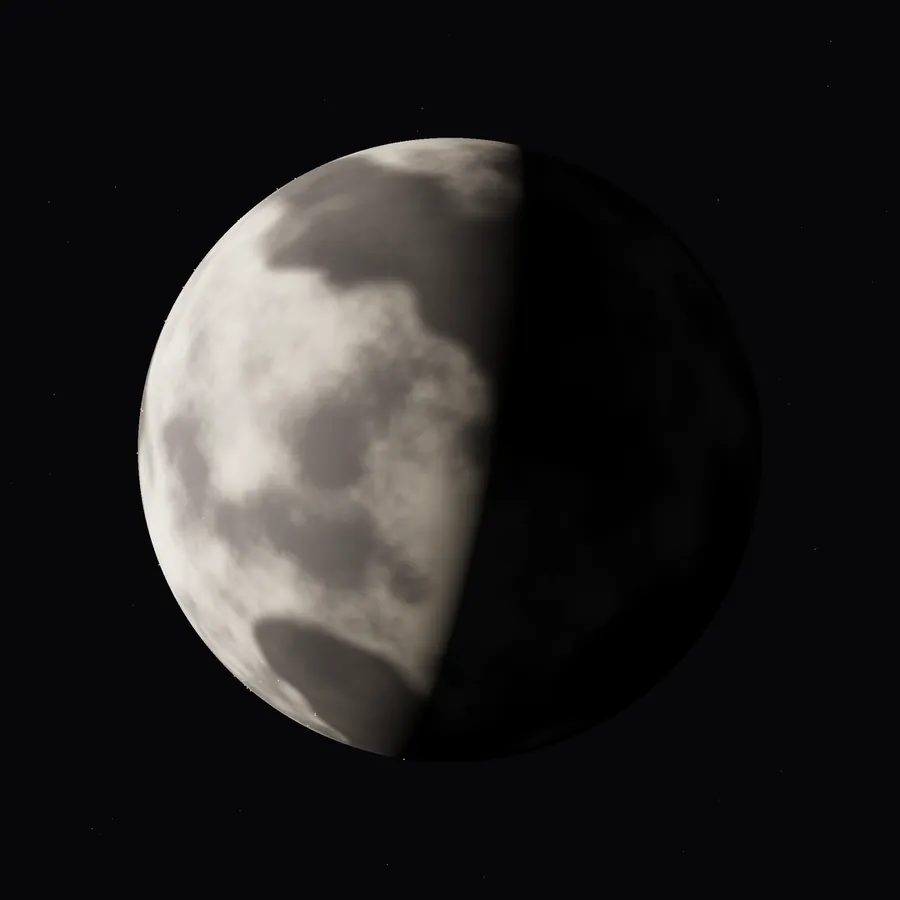
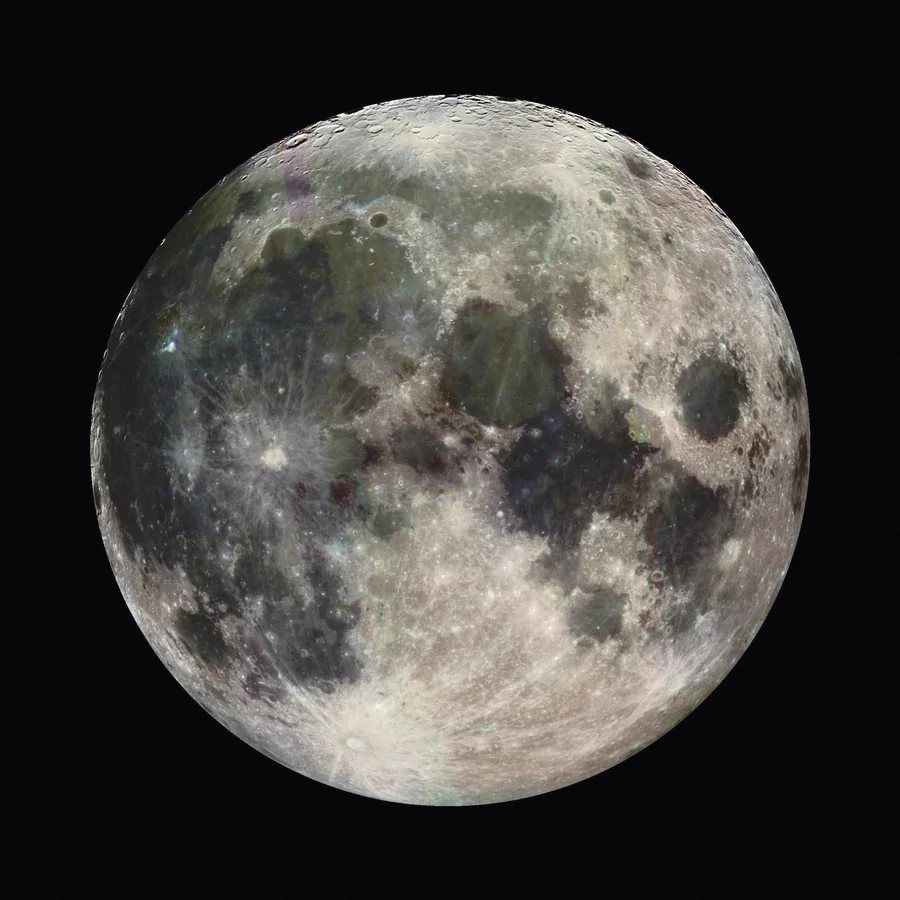
the-rising-archive: real images where they fit; one card wash everywhere
- Public-domain images replace most generated plates: Met Open Access
  objects (rapier, plate armour, wedjat eye, Roman scalpel, theatre
  masks; lion, eagle, fox, oil lamp, sundial for the houses) cut out of
  their studio paper and set on the archive's stage; NASA photographs for
  the six places; Leutze, Tiepolo, Bruegel and David for the Rising.
  Credits under every image and on the Fan Art page
  (lib/data/credits.ts, scripts/art/sourced.py). Dreadnoughts, starships
  and PsychoSpikes keep their renders; the originals move to
  images/renders for the Fan Art page.
- Honor and Fatherhood show framed portraits, Legacy the real cover; the
  home cards use a portrait and the six covers.
- Card wash: burgundy on every card again (Ephraim, Orion and the
  Survivors circle had drifted), and on the cast entries and the Iron
  Rain choices.

Claude-Session: https://claude.ai/code/session_013FcwhpvnvFTAqo8e5UMege

diff --git a/the-rising-archive/lib/data/credits.ts b/the-rising-archive/lib/data/credits.ts
@@ -1,0 +1,42 @@
+// Public-domain images that replaced the archive's generated plates where a
+// real thing came close to the description (scripts/art/sourced.py). Every
+// one is public domain: The Metropolitan Museum of Art's Open Access
+// (CC0) and NASA imagery (not copyrighted). The generated originals are
+// kept in /images/renders/ for the Fan Art page. Dreadnoughts, starships
+// and PsychoSpikes keep their renders: nothing real comes close.
+
+export type Credit = { title: string; by: string; source: string; url: string; alt: string };
+
+const met = (id: number) => `https://www.metmuseum.org/art/collection/search/${id}`;
+const nasa = (id: string) => `https://images.nasa.gov/details/${id}`;
+const MET = "The Metropolitan Museum of Art, Open Access (public domain)";
+const NASA = "NASA (public domain)";
+
+export const CREDITS: Record<string, Credit> = {
+  "/images/vault/razor.webp": { title: "Rapier", by: "Italian, ca. 1610–20", source: MET, url: met(22369), alt: "A rapier’s ornate steel hilt, standing in for a razor." },
+  "/images/vault/starshell.webp": { title: "Armor", by: "Italian, ca. 1400–1450", source: MET, url: met(23205), alt: "A full suit of plate armour, standing in for a StarShell." },
+  "/images/vault/minds-eye.webp": { title: "Wedjat Eye Amulet", by: "Egyptian, 332–30 BCE", source: MET, url: met(550940), alt: "A gold Eye of Horus amulet." },
+  "/images/vault/carving.webp": { title: "Bronze scalpel", by: "Roman, 1st–2nd century CE", source: MET, url: met(244206), alt: "A Roman bronze scalpel." },
+  "/images/vault/holotech.webp": { title: "Terracotta roundels in the form of theatrical masks", by: "Greek, 1st century BCE", source: MET, url: met(257595), alt: "Two theatre masks, one grave, one grinning." },
+  "/images/houses/augustus.webp": { title: "Marble statue of a lion", by: "Greek, ca. 400–390 BCE", source: MET, url: met(248140), alt: "A marble lion, crouched to spring." },
+  "/images/houses/bellona.webp": { title: "Eagle", by: "American, 1809–11", source: MET, url: met(17139), alt: "A gilded eagle, wings spread." },
+  "/images/houses/telemanus.webp": { title: "Netsuke of Fox", by: "Japanese, 19th century", source: MET, url: met(60375), alt: "A carved ivory fox." },
+  "/images/houses/lune.webp": { title: "Terracotta oil lamp", by: "Roman, 1st century CE", source: MET, url: met(246270), alt: "A Roman oil lamp, lit: light from darkness." },
+  "/images/houses/raa.webp": { title: "Portable horizontal sundial", by: "French, before 1681", source: MET, url: met(188861), alt: "A sundial, which tells time by shadow." },
+  "/images/places/mars.webp": { title: "Global Color Views of Mars (PIA00407)", by: "NASA/JPL, Viking", source: NASA, url: nasa("PIA00407"), alt: "Mars, the real planet: red, with Valles Marineris across its face." },
+  "/images/places/luna.webp": { title: "Earth Moon (PIA00405)", by: "NASA/JPL, Galileo", source: NASA, url: nasa("PIA00405"), alt: "The Moon." },
+  "/images/places/mercury.webp": { title: "Mercury Globe (PIA15160)", by: "NASA/JHUAPL/Carnegie, MESSENGER", source: NASA, url: nasa("PIA15160"), alt: "Mercury, grey and cratered." },
+  "/images/places/venus.webp": { title: "Venus from Mariner 10 (PIA23791)", by: "NASA/JPL-Caltech", source: NASA, url: nasa("PIA23791"), alt: "Venus under its clouds." },
+  "/images/places/io.webp": { title: "Global image of Io (PIA02308)", by: "NASA/JPL/University of Arizona, Galileo", source: NASA, url: nasa("PIA02308"), alt: "Io, yellow and volcanic." },
+  "/images/places/earth.webp": { title: "Blue Marble 2007 West", by: "NASA Goddard", source: NASA, url: nasa("GSFC_20171208_Archive_e002131"), alt: "Earth." },
+  "/images/rising/movement.webp": { title: "Washington Crossing the Delaware", by: "Emanuel Leutze, 1851", source: MET, url: met(11417), alt: "Washington Crossing the Delaware: a boat of rebels crossing a frozen river." },
+  "/images/rising/war.webp": { title: "The Battle of Vercellae", by: "Giovanni Battista Tiepolo, 1725–29", source: MET, url: met(437794), alt: "The Battle of Vercellae: Roman cavalry in the crush of a battle." },
+  "/images/rising/myth.webp": { title: "The Harvesters", by: "Pieter Bruegel the Elder, 1565", source: MET, url: met(435809), alt: "The Harvesters: reapers with scythes in a golden field." },
+  "/images/rising/government.webp": { title: "The Death of Socrates", by: "Jacques Louis David, 1787", source: MET, url: met(436105), alt: "The Death of Socrates: a state executes its own philosopher." },
+};
+
+export const creditLine = (src: string) => {
+  const c = CREDITS[src];
+  return c ? `${c.title}. ${c.by}. ${c.source.split(",")[0].replace(" (public domain)", "")}` : "";
+};
+export const altFor = (src: string, fallback: string) => CREDITS[src]?.alt ?? fallback;

diff --git a/the-rising-archive/app/fandom/fan-art/page.tsx b/the-rising-archive/app/fandom/fan-art/page.tsx
@@ -6,6 +6,7 @@ import FramedPortrait from "@/components/archive/FramedPortrait";
 import { getExtended } from "@/lib/data/extended";
 import { getPerson, safeAs } from "@/lib/data/people";
 import { PORTRAITS, portraitCredit } from "@/lib/data/portraits";
+import { CREDITS } from "@/lib/data/credits";
 
 const portraitName = (slug: string) => {
   const p = getPerson(slug);
@@ -33,15 +34,15 @@ const GROUPS: { title: string; note: string; items: { src: string; alt: string; 
   {
     title: "The Rising",
     note: "A movement, a war, a myth, a government.",
-    items: ["movement", "war", "myth", "government"].map((s) => ({ src: `/images/rising/${s}.webp`, alt: `The Rising: ${s}.`, w: 1600, h: 900 })),
+    items: ["movement", "war", "myth", "government"].map((s) => ({ src: `/images/renders/rising/${s}.webp`, alt: `The Rising: ${s}.`, w: 1600, h: 900 })),
   },
   {
     title: "Worlds, seals and machines",
     note: "Planets, house seals, and the Artifact Vault.",
     items: [
-      ...["mars", "luna", "earth", "mercury", "venus", "io"].map((s) => ({ src: `/images/places/${s}.webp`, alt: `${s}, rendered.` })),
-      ...["augustus", "bellona", "lune", "telemanus", "raa"].map((s) => ({ src: `/images/houses/${s}.webp`, alt: `The ${s} seal.` })),
-      ...["razor", "starshell", "dreadnought", "starship", "minds-eye", "carving", "psychospike", "holotech"].map((s) => ({ src: `/images/vault/${s}.webp`, alt: `${s.replace(/-/g, " ")}, from the Vault.` })),
+      ...["mars", "luna", "earth", "mercury", "venus", "io"].map((s) => ({ src: `/images/renders/places/${s}.webp`, alt: `${s}, rendered.` })),
+      ...["augustus", "bellona", "lune", "telemanus", "raa"].map((s) => ({ src: `/images/renders/houses/${s}.webp`, alt: `The ${s} seal.` })),
+      ...["razor", "starshell", "dreadnought", "starship", "minds-eye", "carving", "psychospike", "holotech"].map((s) => ({ src: `/images/renders/vault/${s}.webp`, alt: `${s.replace(/-/g, " ")}, from the Vault.` })),
     ],
   },
 ];
@@ -52,7 +53,7 @@ export default function FanArtPage() {
       <PageHeader
         trail={[{ href: "/", label: "Archive" }, { href: "/fandom/", label: "The Fandom" }, { href: "/fandom/fan-art/", label: "Fan art" }]}
         title="The archive’s plates"
-        lede="The character portraits are the fandom’s work, credited to the artists below. Everything else here is the archive’s own: three.js scenes rendered headlessly, and posters drawn in code."
+        lede="The character portraits are the fandom’s work, credited to the artists below. The renders further down are the archive’s own: three.js scenes and posters drawn in code. Where a real, public-domain image came closer, the site uses it instead; those are listed at the end."
       >
         <p className="mt-6 max-w-[56ch] text-sm text-ash-2">
           For the fandom’s real artists, go where they post:{" "}
@@ -98,6 +99,24 @@ export default function FanArtPage() {
           </div>
         </section>
       ))}
+      <section aria-labelledby="sources-title" className="border-t border-line px-5 py-16 md:px-8">
+        <div className="mx-auto max-w-[1400px]">
+          <h2 id="sources-title" className="font-display text-h3 font-bold uppercase">Real images used on the site</h2>
+          <p className="mt-2 max-w-[70ch] text-ash">
+            Where a real object, painting or photograph came close to what the books describe, it replaced the archive’s render. All are public domain: The Met’s Open Access collection and NASA.
+          </p>
+          <ul role="list" className="mt-8 grid gap-x-10 gap-y-3 md:grid-cols-2">
+            {Object.entries(CREDITS).map(([src, c]) => (
+              <li key={src} className="border-b border-line pb-3 text-sm">
+                <a href={c.url} target="_blank" rel="noopener noreferrer" className="inline-block py-1 text-bone underline decoration-line-strong underline-offset-4 hover:text-red">
+                  {c.title}
+                </a>
+                <span className="text-ash">. {c.by}. {c.source}.</span>
+              </li>
+            ))}
+          </ul>
+        </div>
+      </section>
     </>
   );
 }

diff --git a/the-rising-archive/lib/data/ideas.ts b/the-rising-archive/lib/data/ideas.ts
@@ -6,6 +6,10 @@ export type Idea = {
   question: string;
   plate: string;
   plateAlt: string;
+  plateW?: number;
+  plateH?: number;
+  /** Show this character's framed portrait instead of the plate. */
+  portrait?: { slug: string; name: string };
   lines: { text: string; book: number }[];
   pairs?: { a: string; b: string; note: string; book: number }[];
 };
@@ -16,7 +20,7 @@ export const IDEAS: Idea[] = [
     name: "Freedom",
     question: "What happens when people who have been oppressed finally receive power?",
     plate: "/images/rising/movement.webp",
-    plateAlt: "A cavern full of small red lamps, stretching into the dark.",
+    plateAlt: "Washington Crossing the Delaware: a boat of rebels crossing a frozen river.",
     lines: [
       { text: "It starts with Eo, who asks Darrow to live for more than survival, and pays for the asking.", book: 1 },
       { text: "The first trilogy is about getting free. The second is about what freedom is worth to a Red girl in a refugee camp ten years later. Lyria’s chapters in Iron Gold ask the question the Rising didn’t have time to.", book: 4 },
@@ -27,7 +31,7 @@ export const IDEAS: Idea[] = [
     name: "Power",
     question: "Is power inherently corrupting? Or does it simply reveal what people were already willing to do?",
     plate: "/images/houses/augustus.webp",
-    plateAlt: "The Augustus seal: a gold sunburst lion on red.",
+    plateAlt: "A marble lion, crouched to spring: the Augustus sign.",
     lines: [
       { text: "The archive’s answer is the Ten Faces: ten people, and ten different things power became in their hands.", book: 0 },
       { text: "Darrow wins a war by becoming the Reaper. The books that follow ask what the Reaper costs the man.", book: 3 },
@@ -38,7 +42,7 @@ export const IDEAS: Idea[] = [
     name: "Revolution",
     question: "When does liberation become government? And when does government become another hierarchy?",
     plate: "/images/rising/government.webp",
-    plateAlt: "An empty senate hemicycle under a single light.",
+    plateAlt: "The Death of Socrates: a state executes its own philosopher.",
     lines: [
       { text: "The Rising wins. That is where the hard part starts.", book: 3 },
       { text: "The Republic keeps the Senate, the fleets and the broadcasts. It has to decide how much else of the old world to keep, and every choice is someone else’s betrayal.", book: 4 },
@@ -50,6 +54,7 @@ export const IDEAS: Idea[] = [
     question: "Four people. Four completely different relationships with the same word.",
     plate: "/images/people/cassius.webp",
     plateAlt: "A broken razor beside an untouched glass of wine.",
+    portrait: { slug: "cassius", name: "Cassius au Bellona" },
     lines: [],
     pairs: [
       { a: "Cassius", b: "Honour as inheritance", note: "The thing he was raised on, and has to relearn after it is used against him.", book: 1 },
@@ -62,8 +67,10 @@ export const IDEAS: Idea[] = [
     slug: "legacy",
     name: "Legacy",
     question: "Every generation inherits a different version of the same conflict.",
-    plate: "/images/books/light-bringer.webp",
-    plateAlt: "Book plate: light radiating from a single point.",
+    plate: "/images/covers/light-bringer.webp",
+    plateAlt: "The cover of Light Bringer.",
+    plateW: 900,
+    plateH: 1350,
     lines: [],
     pairs: [
       { a: "Eo", b: "A dream", note: "That a life could be more than labour.", book: 1 },
@@ -79,6 +86,7 @@ export const IDEAS: Idea[] = [
     question: "The saga is quietly obsessed with what parents leave behind.",
     plate: "/images/people/pax.webp",
     plateAlt: "A hoverbike built from salvage, glowing blue underneath.",
+    portrait: { slug: "pax", name: "Pax" },
     lines: [],
     pairs: [
       { a: "Fitchner", b: "Sevro", note: "A father his son thought didn’t care.", book: 1 },

diff --git a/the-rising-archive/app/world/vault/page.tsx b/the-rising-archive/app/world/vault/page.tsx
@@ -1,6 +1,7 @@
 import type { Metadata } from "next";
 import PageHeader from "@/components/typography/PageHeader";
 import Plate from "@/components/archive/Plate";
+import { altFor, creditLine } from "@/lib/data/credits";
 import Reveal from "@/components/archive/Reveal";
 import SpoilerGate from "@/components/archive/SpoilerGate";
 import Stamp from "@/components/archive/Stamp";
@@ -21,14 +22,14 @@ export default function VaultPage() {
         tone="rim"
         trail={[{ href: "/", label: "Archive" }, { href: "/world/", label: "The World" }, { href: "/world/vault/", label: "Vault" }]}
         title="The Artifact Vault"
-        lede="The machinery of the war, catalogued like museum pieces. Every object here was rendered for this archive."
+        lede="The machinery of the war, catalogued like museum pieces. Where something real comes close, it stands in: a real sword for the razor, real armour for the StarShell. The rest are the archive’s own renders."
       />
       <section aria-label="Artifacts" className="px-5 pb-20 md:px-8">
         <ul role="list" className="mx-auto grid max-w-[1400px] gap-px bg-line md:grid-cols-2">
           {VAULT.map((a, i) => (
             <Reveal as="li" key={a.slug} delay={(i % 2) * 0.06} className="bg-void">
               <Spotlight as="article" tone="red" className={cn("grid h-full gap-0 sm:grid-cols-2", i % 4 >= 2 && "sm:[&>*:first-child]:order-2")}>
-                <Plate src={a.plate} alt={`${a.name}, rendered for this archive.`} className="aspect-square object-cover" sizes="(min-width: 768px) 25vw, 50vw" />
+                <Plate src={a.plate} alt={altFor(a.plate, `${a.name}, rendered for this archive.`)} className="aspect-square object-cover" sizes="(min-width: 768px) 25vw, 50vw" />
                 <div className="flex flex-col p-6 md:p-8">
                   <h2 className="font-display text-3xl leading-none font-bold uppercase">{a.name}</h2>
                   <p className="mt-3 font-serif text-lg text-bone/90 italic">{a.line}</p>
@@ -40,6 +41,7 @@ export default function VaultPage() {
                     ))}
                   </div>
                   {a.reading && <Stamp kind="reading" className="mt-auto self-start pt-0" />}
+                  <p className="mt-6 font-mono text-[0.7rem] tracking-[0.12em] text-ash-2 uppercase">{creditLine(a.plate) || "Archive render"}</p>
                 </div>
               </Spotlight>
             </Reveal>

diff --git a/the-rising-archive/components/sections/ArchiveIndex.tsx b/the-rising-archive/components/sections/ArchiveIndex.tsx
@@ -6,11 +6,11 @@ import { cn } from "@/lib/utils";
 import Spotlight from "@/components/archive/Spotlight";
 
 const BRANCHES = [
-  { href: "/story/", title: "The Story", body: "Six books as six chapters in the history of a civilization, and the timeline they sit on.", cta: "Open the story", plate: "/images/books/shelf.webp", w: 1600, h: 900, span: "md:col-span-4 md:row-span-2 md:min-h-[34rem]" },
-  { href: "/people/", title: "The People", body: "Ten faces of power, their dossiers, and what the war took from each of them.", cta: "Open the dossiers", plate: "/images/people/darrow.webp", w: 900, h: 900, span: "md:col-span-2 md:row-span-2" },
+  { href: "/story/", title: "The Story", body: "Six books as six chapters in the history of a civilization, and the timeline they sit on.", cta: "Open the story", plate: "/images/covers/shelf.webp", w: 1600, h: 900, span: "md:col-span-4 md:row-span-2 md:min-h-[34rem]" },
+  { href: "/people/", title: "The People", body: "Ten faces of power, their dossiers, and what the war took from each of them.", cta: "Open the dossiers", plate: "/images/portraits/darrow.webp", w: 960, h: 1200, span: "md:col-span-2 md:row-span-2" },
   { href: "/world/", title: "The World", body: "Fourteen Colors, five houses, the factions, the planets, the machines.", cta: "Enter the world", plate: "/images/places/mars.webp", w: 900, h: 900, span: "md:col-span-2" },
   { href: "/ideas/", title: "The Ideas", body: "Six questions the saga won’t stop asking.", cta: "Ask them", plate: "/images/rising/movement.webp", w: 1600, h: 900, span: "md:col-span-2" },
-  { href: "/fandom/", title: "The Fandom", body: "The arguments, the quotes, the chorus.", cta: "Join the argument", plate: "/images/people/virginia.webp", w: 900, h: 900, span: "md:col-span-2" },
+  { href: "/fandom/", title: "The Fandom", body: "The arguments, the quotes, the chorus.", cta: "Join the argument", plate: "/images/portraits/sevro.webp", w: 960, h: 1200, span: "md:col-span-2" },
   { href: "/author/", title: "The Author", body: "Pierce Brown, the man who built Mars.", cta: "Meet him", plate: "/images/covers/light-bringer.webp", w: 900, h: 1350, span: "md:col-span-3" },
   { href: "/sealed/", title: "The Sealed File", body: "VII. Red God. Status: incomplete.", cta: "Access denied", plate: null, w: 0, h: 0, span: "md:col-span-3" },
 ];

diff --git a/the-rising-archive/app/world/page.tsx b/the-rising-archive/app/world/page.tsx
@@ -13,10 +13,10 @@ export const metadata: Metadata = {
 };
 
 const PARTS = [
-  { href: "/world/colors/", title: "Fourteen Colors", body: "A caste tower. Start at the bottom and climb.", plate: "/images/places/mars.webp", alt: "Mars, half in shadow.", span: "md:col-span-4 md:row-span-2" },
-  { href: "/world/houses/", title: "Houses", body: "Five Gold dynasties, opened as sealed dossiers.", plate: "/images/houses/augustus.webp", alt: "The Augustus seal.", span: "md:col-span-2" },
-  { href: "/world/factions/", title: "Factions", body: "The Society, the Sons of Ares, the Howlers, the Knights.", plate: "/images/rising/myth.webp", alt: "A masked idol over a crowd.", span: "md:col-span-2" },
-  { href: "/world/places/", title: "Places", body: "A map of the Solar System’s grievances.", plate: "/images/places/io.webp", alt: "Io in front of Jupiter.", span: "md:col-span-3" },
+  { href: "/world/colors/", title: "Fourteen Colors", body: "A caste tower. Start at the bottom and climb.", plate: "/images/places/mars.webp", alt: "Mars.", span: "md:col-span-4 md:row-span-2" },
+  { href: "/world/houses/", title: "Houses", body: "Five Gold dynasties, opened as sealed dossiers.", plate: "/images/houses/augustus.webp", alt: "A marble lion, the Augustus sign.", span: "md:col-span-2" },
+  { href: "/world/factions/", title: "Factions", body: "The Society, the Sons of Ares, the Howlers, the Knights.", plate: "/images/rising/war.webp", alt: "The Battle of Vercellae: cavalry in the crush of a battle.", span: "md:col-span-2" },
+  { href: "/world/places/", title: "Places", body: "A map of the Solar System’s grievances.", plate: "/images/places/io.webp", alt: "Io.", span: "md:col-span-3" },
   { href: "/world/vault/", title: "The Vault", body: "Razors, StarShells, dreadnoughts and worse.", plate: "/images/vault/dreadnought.webp", alt: "A dreadnought above Mars.", span: "md:col-span-3" },
 ];
 

diff --git a/the-rising-archive/components/sections/RisingStack.tsx b/the-rising-archive/components/sections/RisingStack.tsx
@@ -14,7 +14,7 @@ const STAGES = [
   {
     word: "A movement",
     plate: "/images/rising/movement.webp",
-    alt: "A cavern full of small red lamps.",
+    alt: "Washington Crossing the Delaware: a boat of rebels crossing a frozen river.",
     book: 1,
     lines: [
       "It starts before Darrow. A Gold named Fitchner au Barca loves a Red woman, Bryn of Cryssos. The Society executes her for it. He answers by building the Sons of Ares.",
@@ -24,7 +24,7 @@ const STAGES = [
   {
     word: "A war",
     plate: "/images/rising/war.webp",
-    alt: "Streaks of light falling onto Mars: the Iron Rain.",
+    alt: "The Battle of Vercellae: cavalry in the crush of a battle.",
     book: 2,
     lines: [
       "A duel at a gala on Luna is built to split the Golds against each other, and it does. Then soldiers fall on Mars from orbit in the Iron Rain.",
@@ -34,7 +34,7 @@ const STAGES = [
   {
     word: "A myth",
     plate: "/images/rising/myth.webp",
-    alt: "A masked idol looming over a crowd in red light.",
+    alt: "The Harvesters: reapers with scythes in a golden field.",
     book: 3,
     lines: [
       "The Reaper. The Morning Star. A name bigger than the man, carried by Obsidians who were bred to be weapons and chose freedom instead.",
@@ -44,7 +44,7 @@ const STAGES = [
   {
     word: "A government",
     plate: "/images/rising/government.webp",
-    alt: "An empty senate hemicycle under a single light.",
+    alt: "The Death of Socrates: a state executes its own philosopher.",
     book: 3,
     lines: [
       "November 743 PCE: Luna falls. The Solar Republic is founded, with Virginia au Augustus as Sovereign.",

diff --git a/the-rising-archive/app/people/cast/page.tsx b/the-rising-archive/app/people/cast/page.tsx
@@ -1,6 +1,7 @@
 import type { Metadata } from "next";
 import Link from "next/link";
 import { Suspense } from "react";
+import CardWash from "@/components/archive/CardWash";
 import FramedPortrait from "@/components/archive/FramedPortrait";
 import SpoilerGate from "@/components/archive/SpoilerGate";
 import { PORTRAITS } from "@/lib/data/portraits";
@@ -61,7 +62,7 @@ export default function CastPage() {
               <h3 className="font-mono text-meta tracking-[0.2em] text-ash-2 uppercase">First met in {BOOK_TITLES[b]}</h3>
               <ul role="list" className="mt-6 grid gap-px bg-line md:grid-cols-2 xl:grid-cols-3">
                 {CAST.filter((c) => c.book === b).map((c) => (
-                  <li key={c.slug} id={c.slug} className="scroll-mt-28 bg-void p-6 md:p-7">
+                  <li key={c.slug} id={c.slug} data-wash="red" className="wash-card scroll-mt-28 bg-void p-6 md:p-7">
                     {PORTRAITS[c.slug] && <FramedPortrait slug={c.slug} name={c.name} size="card" className="mb-5 w-32" sizes="128px" />}
                     <p className="font-display text-2xl leading-tight font-bold uppercase">{c.name}</p>
                     <p className="mt-1 font-mono text-meta tracking-[0.16em] text-ash uppercase">{c.color}</p>
@@ -85,6 +86,7 @@ export default function CastPage() {
                         </p>
                       )}
                     </SpoilerGate>
+                    <CardWash />
                   </li>
                 ))}
               </ul>

diff --git a/the-rising-archive/components/navigation/SiteFooter.tsx b/the-rising-archive/components/navigation/SiteFooter.tsx
@@ -8,7 +8,7 @@ export default function SiteFooter() {
         <div>
           <p className="font-display text-3xl font-bold tracking-tight uppercase">The Red Rising Archive</p>
           <p className="mt-4 max-w-[52ch] text-sm text-ash">
-            An unofficial fan archive. Red Rising, its characters and its world belong to Pierce Brown and his publishers. Plot facts here were checked against published sources; interpretation is marked as the archivist&rsquo;s own. The book covers are the publisher&rsquo;s (Del Rey, Penguin Random House), shown to identify the books. The character portraits are fan art, credited to their artists on the Fan Art page. Every other image is an archive plate made for this site.
+            An unofficial fan archive. Red Rising, its characters and its world belong to Pierce Brown and his publishers. Plot facts here were checked against published sources; interpretation is marked as the archivist&rsquo;s own. The book covers are the publisher&rsquo;s (Del Rey, Penguin Random House), shown to identify the books. The character portraits are fan art, credited to their artists on the Fan Art page. The planets are NASA photographs, and the museum pieces and paintings come from The Met’s public-domain collection. Everything else was made for this site.
           </p>
         </div>
         <nav aria-label="Footer">

diff --git a/the-rising-archive/app/ideas/[slug]/page.tsx b/the-rising-archive/app/ideas/[slug]/page.tsx
@@ -3,6 +3,7 @@ import Link from "next/link";
 import CardWash from "@/components/archive/CardWash";
 import { notFound } from "next/navigation";
 import Plate from "@/components/archive/Plate";
+import FramedPortrait from "@/components/archive/FramedPortrait";
 import Reveal from "@/components/archive/Reveal";
 import SpoilerGate from "@/components/archive/SpoilerGate";
 import Stamp from "@/components/archive/Stamp";
@@ -41,7 +42,11 @@ export default async function IdeaPage({ params }: PageProps<"/ideas/[slug]">) {
             <h1 className="mt-6 font-display text-colossal leading-[0.8] font-extrabold tracking-tight uppercase">{idea.name}</h1>
             <p className="mt-8 max-w-[30ch] font-serif text-h2 leading-tight text-bone italic">{idea.question}</p>
           </div>
-          <Plate src={idea.plate} alt={idea.plateAlt} priority className="border border-line" sizes="(min-width: 768px) 33vw, 100vw" />
+          {idea.portrait ? (
+            <FramedPortrait slug={idea.portrait.slug} name={idea.portrait.name} size="hero" priority sizes="(min-width: 768px) 30vw, 80vw" />
+          ) : (
+            <Plate src={idea.plate} alt={idea.plateAlt} width={idea.plateW ?? 900} height={idea.plateH ?? 900} priority className="border border-line" sizes="(min-width: 768px) 33vw, 100vw" />
+          )}
         </div>
       </header>
 

diff --git a/the-rising-archive/components/people/IronRain.tsx b/the-rising-archive/components/people/IronRain.tsx
@@ -2,6 +2,7 @@
 
 import Link from "next/link";
 import { useId, useSyncExternalStore } from "react";
+import CardWash from "@/components/archive/CardWash";
 import FramedPortrait from "@/components/archive/FramedPortrait";
 import { useArchive } from "@/components/providers/ArchiveProvider";
 import { EXTENDED } from "@/lib/data/extended";
@@ -67,11 +68,13 @@ export default function IronRain() {
               return (
                 <label
                   key={f.slug}
+                  data-wash="red"
                   className={cn(
-                    "group relative flex cursor-pointer flex-col gap-3 bg-void p-4 transition-colors has-[:focus-visible]:outline-2 has-[:focus-visible]:outline-red md:p-5",
-                    on ? "bg-red/15" : "hover:bg-void-3",
+                    "wash-card group relative flex cursor-pointer flex-col gap-3 bg-void p-4 has-[:focus-visible]:outline-2 has-[:focus-visible]:outline-red md:p-5",
+                    on && "outline-2 -outline-offset-2 outline-red",
                   )}
                 >
+                  <CardWash />
                   <input type="radio" name={name} value={f.slug} checked={on} onChange={() => pickStore.set(f.slug)} className="sr-only" />
                   <FramedPortrait
                     slug={f.slug}

diff --git a/the-rising-archive/components/world/SolarMap.tsx b/the-rising-archive/components/world/SolarMap.tsx
@@ -3,6 +3,7 @@
 import { useState } from "react";
 import { AnimatePresence, motion, useReducedMotion } from "motion/react";
 import Plate from "@/components/archive/Plate";
+import { altFor, creditLine } from "@/lib/data/credits";
 import SpoilerGate from "@/components/archive/SpoilerGate";
 import { PLACES } from "@/lib/data/places";
 import { cssEase } from "@/lib/animation/tokens";
@@ -74,7 +75,8 @@ export default function SolarMap() {
             exit={reduce ? undefined : { opacity: 0, y: -8 }}
             transition={{ duration: 0.32, ease: cssEase.out }}
           >
-            <Plate src={place.plate} alt={`${place.name}, rendered for this archive.`} className="border border-line" />
+            <Plate src={place.plate} alt={altFor(place.plate, place.name)} className="border border-line" />
+            <p className="mt-2 font-mono text-[0.7rem] tracking-[0.12em] text-ash-2 uppercase">As it looks today. {creditLine(place.plate)}</p>
             <h2 className="mt-6 font-display text-h2 leading-none font-bold uppercase">{place.name}</h2>
             <div className="mt-5 space-y-4">
               {place.lines.map((l) => (
